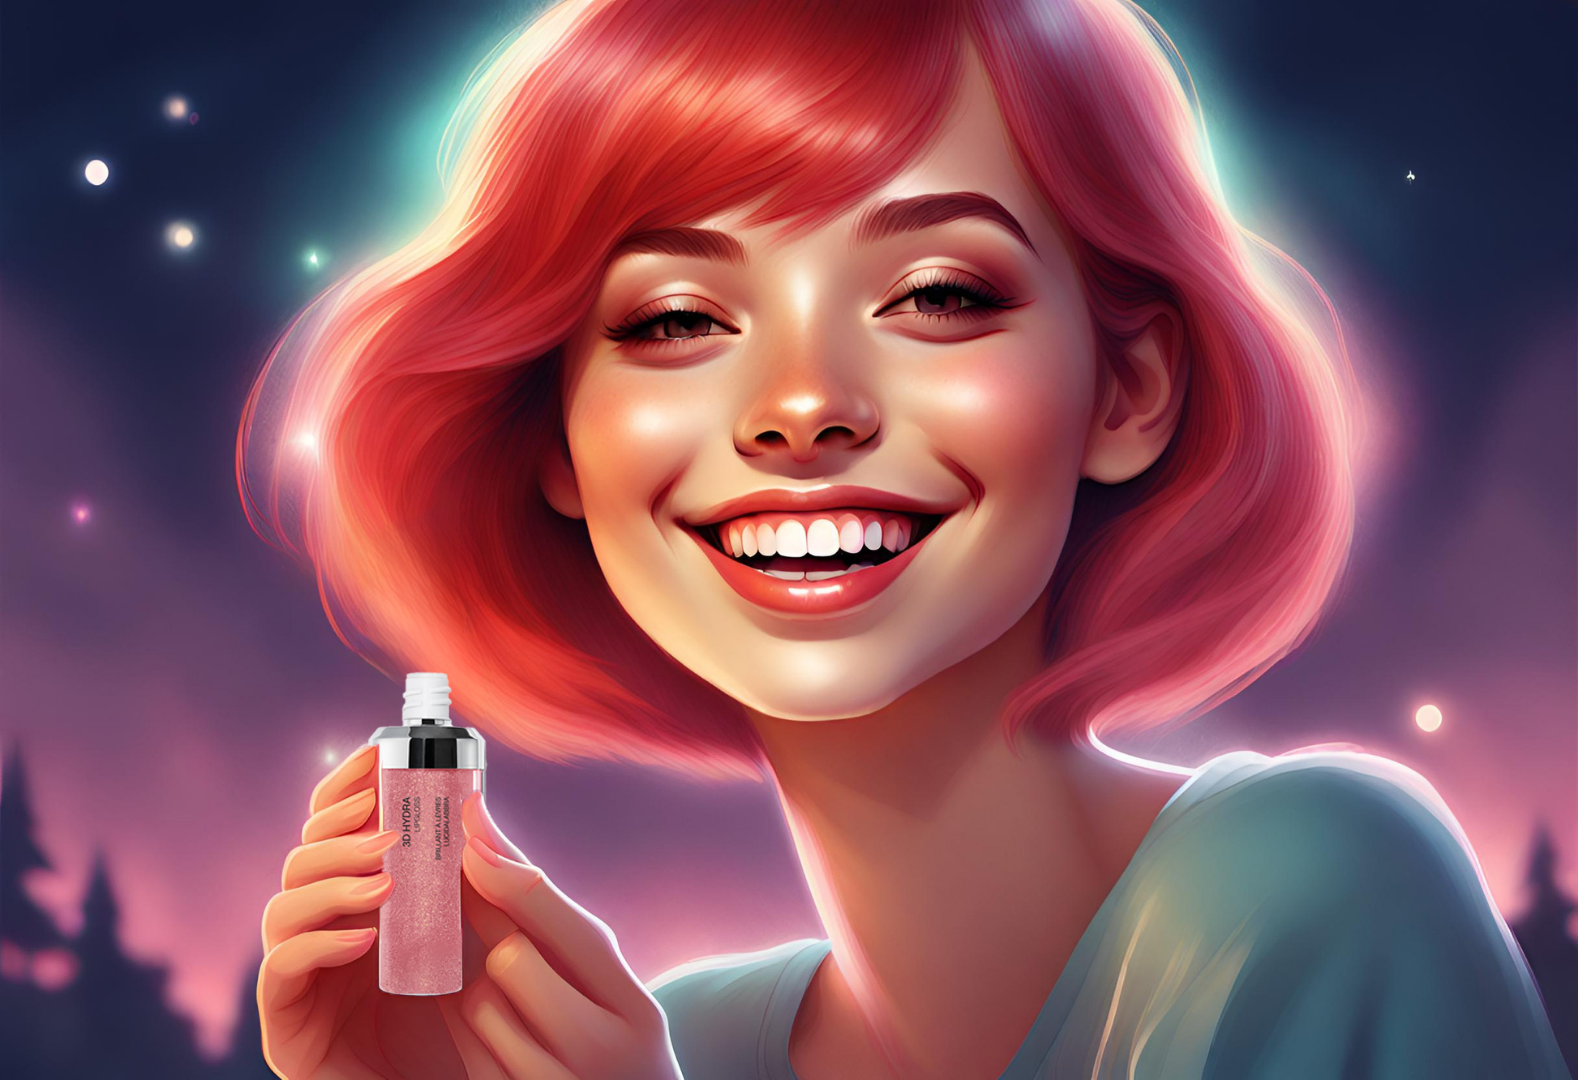
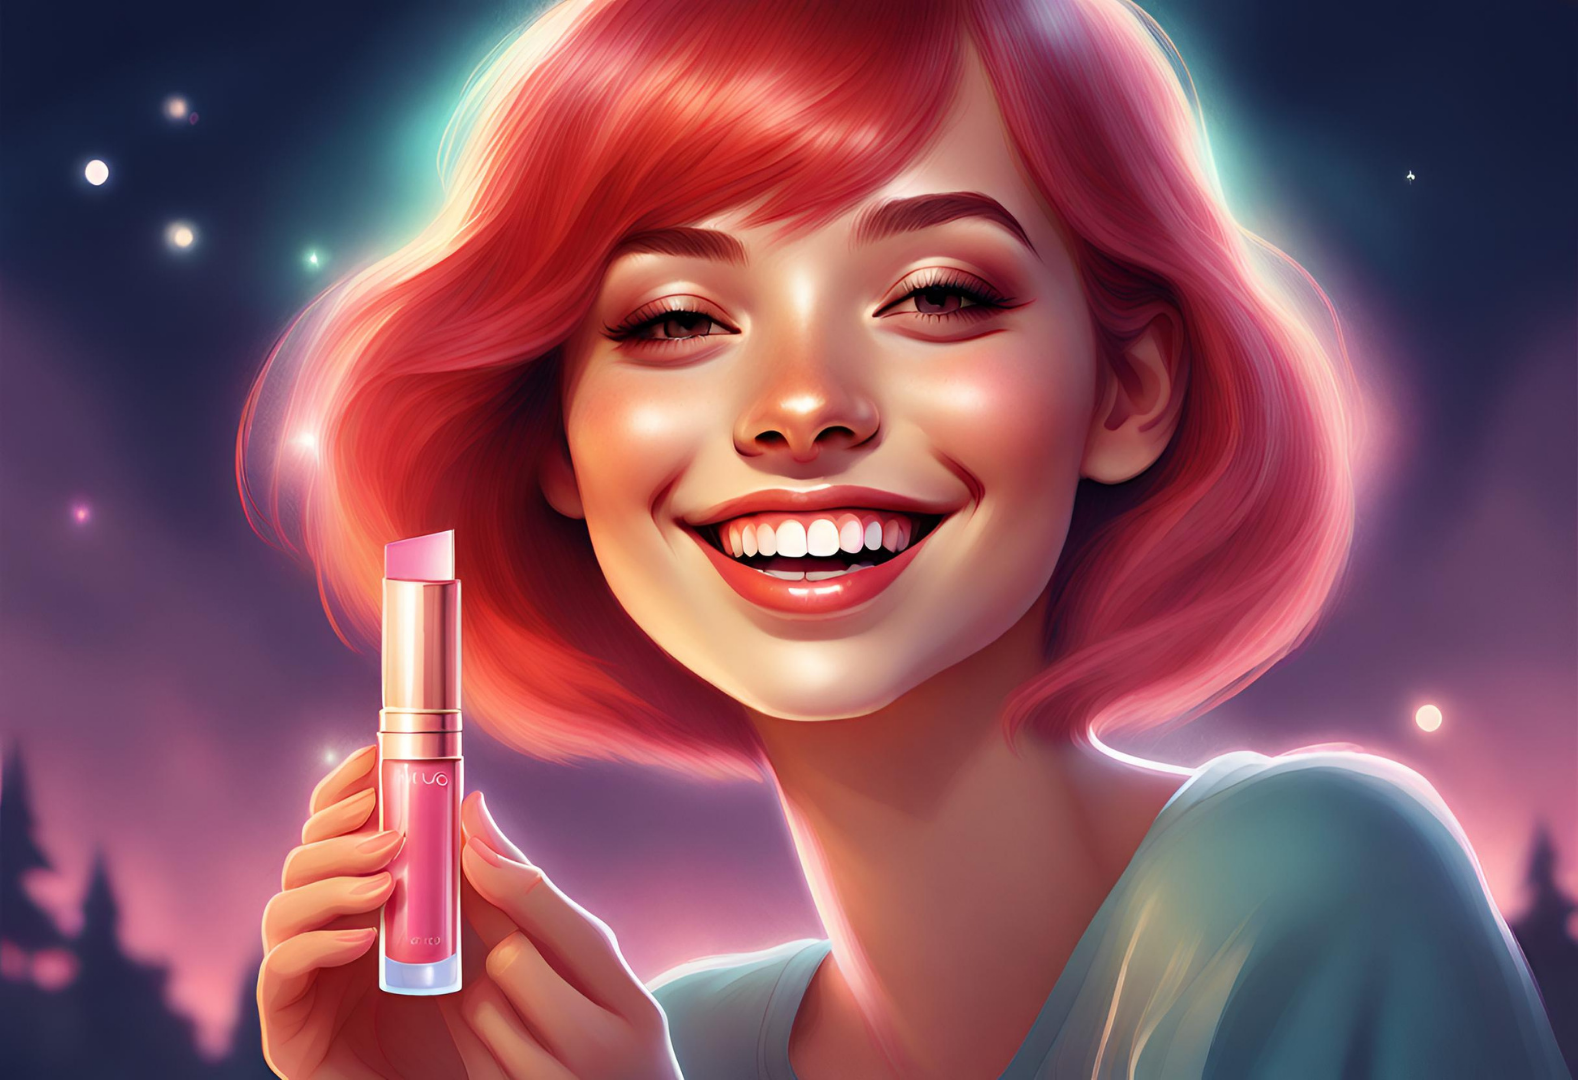
Update memories.vue and card-image-17.png

Changed region(s): [[0.2174, 0.4889, 0.3105, 0.9472]]

diff --git a/src/pages/memories.vue b/src/pages/memories.vue
@@ -164,7 +164,7 @@ export default {
         location: "Pursaklar/Ankara",
         time: "14:12pm",
         message:
-          "Yine ayrılık vakti geldi çattı. Bu seferki ayrılık çok daha zor. Her defasında sana tam alışmışken geri dönmek zorunda kalmaktan nefret ediyorum. Daha önce de söylediğim gibi, umarım bir gün hep yan yana oluruz. Kendine iyi bak sevgilim. Seni çok özleyeceğim.",
+          "Sana harika bir dudak parlatıcısı aldım. Mutluluğun tarif edilemezdi. Bu dudak parlatıcısı en güzel günlerde hep dudaklarını parlatacak. Tıpkı senin benim hayatımı tam anlamıyla parlattığın gibi.",
         color: "blue-lighten-1",
       },
     ],
